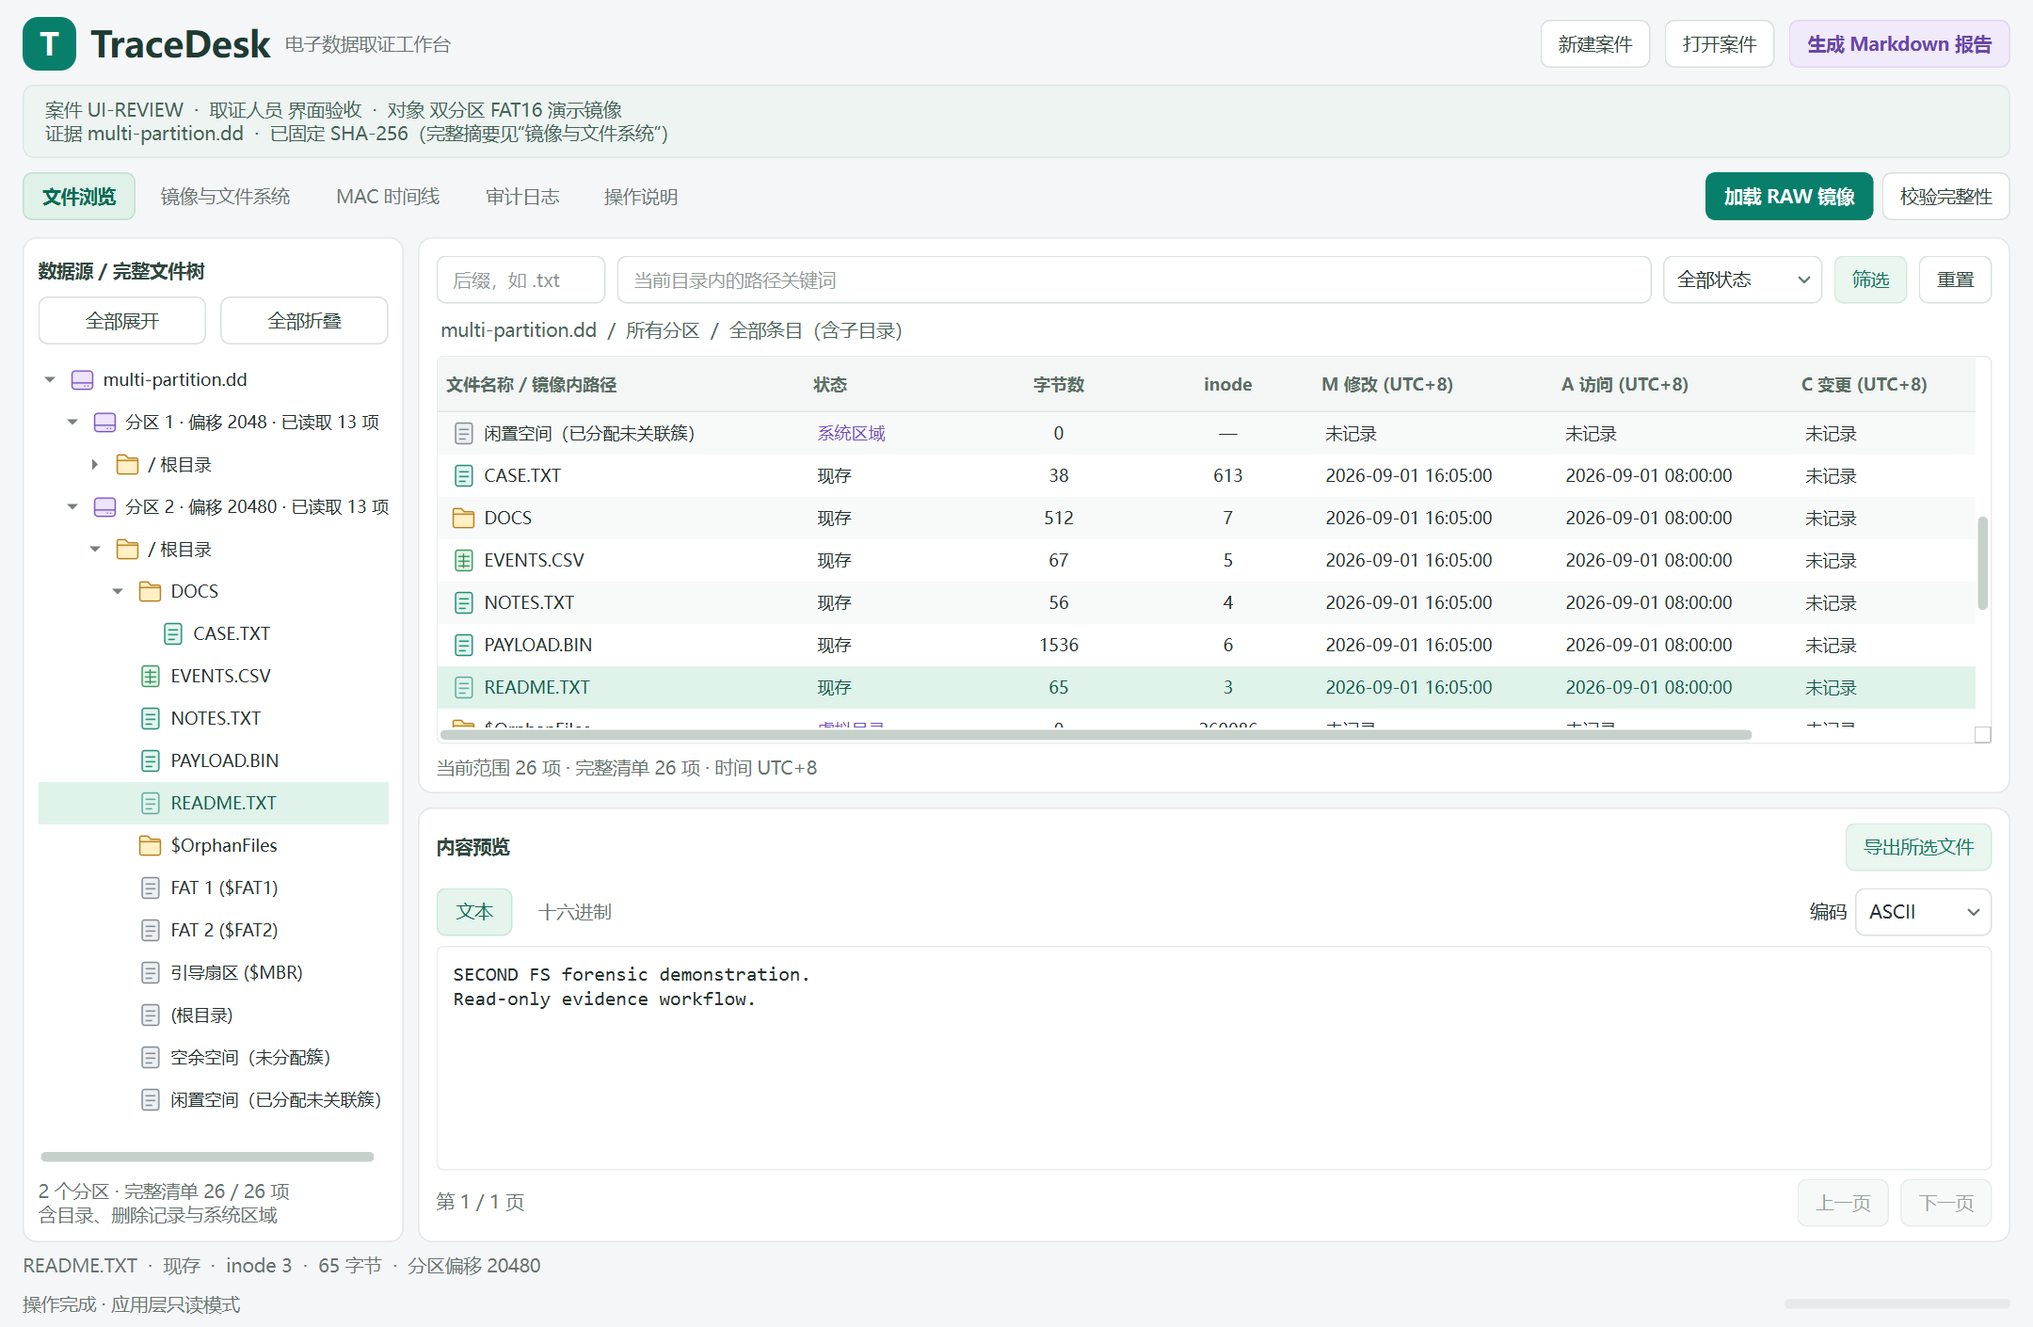
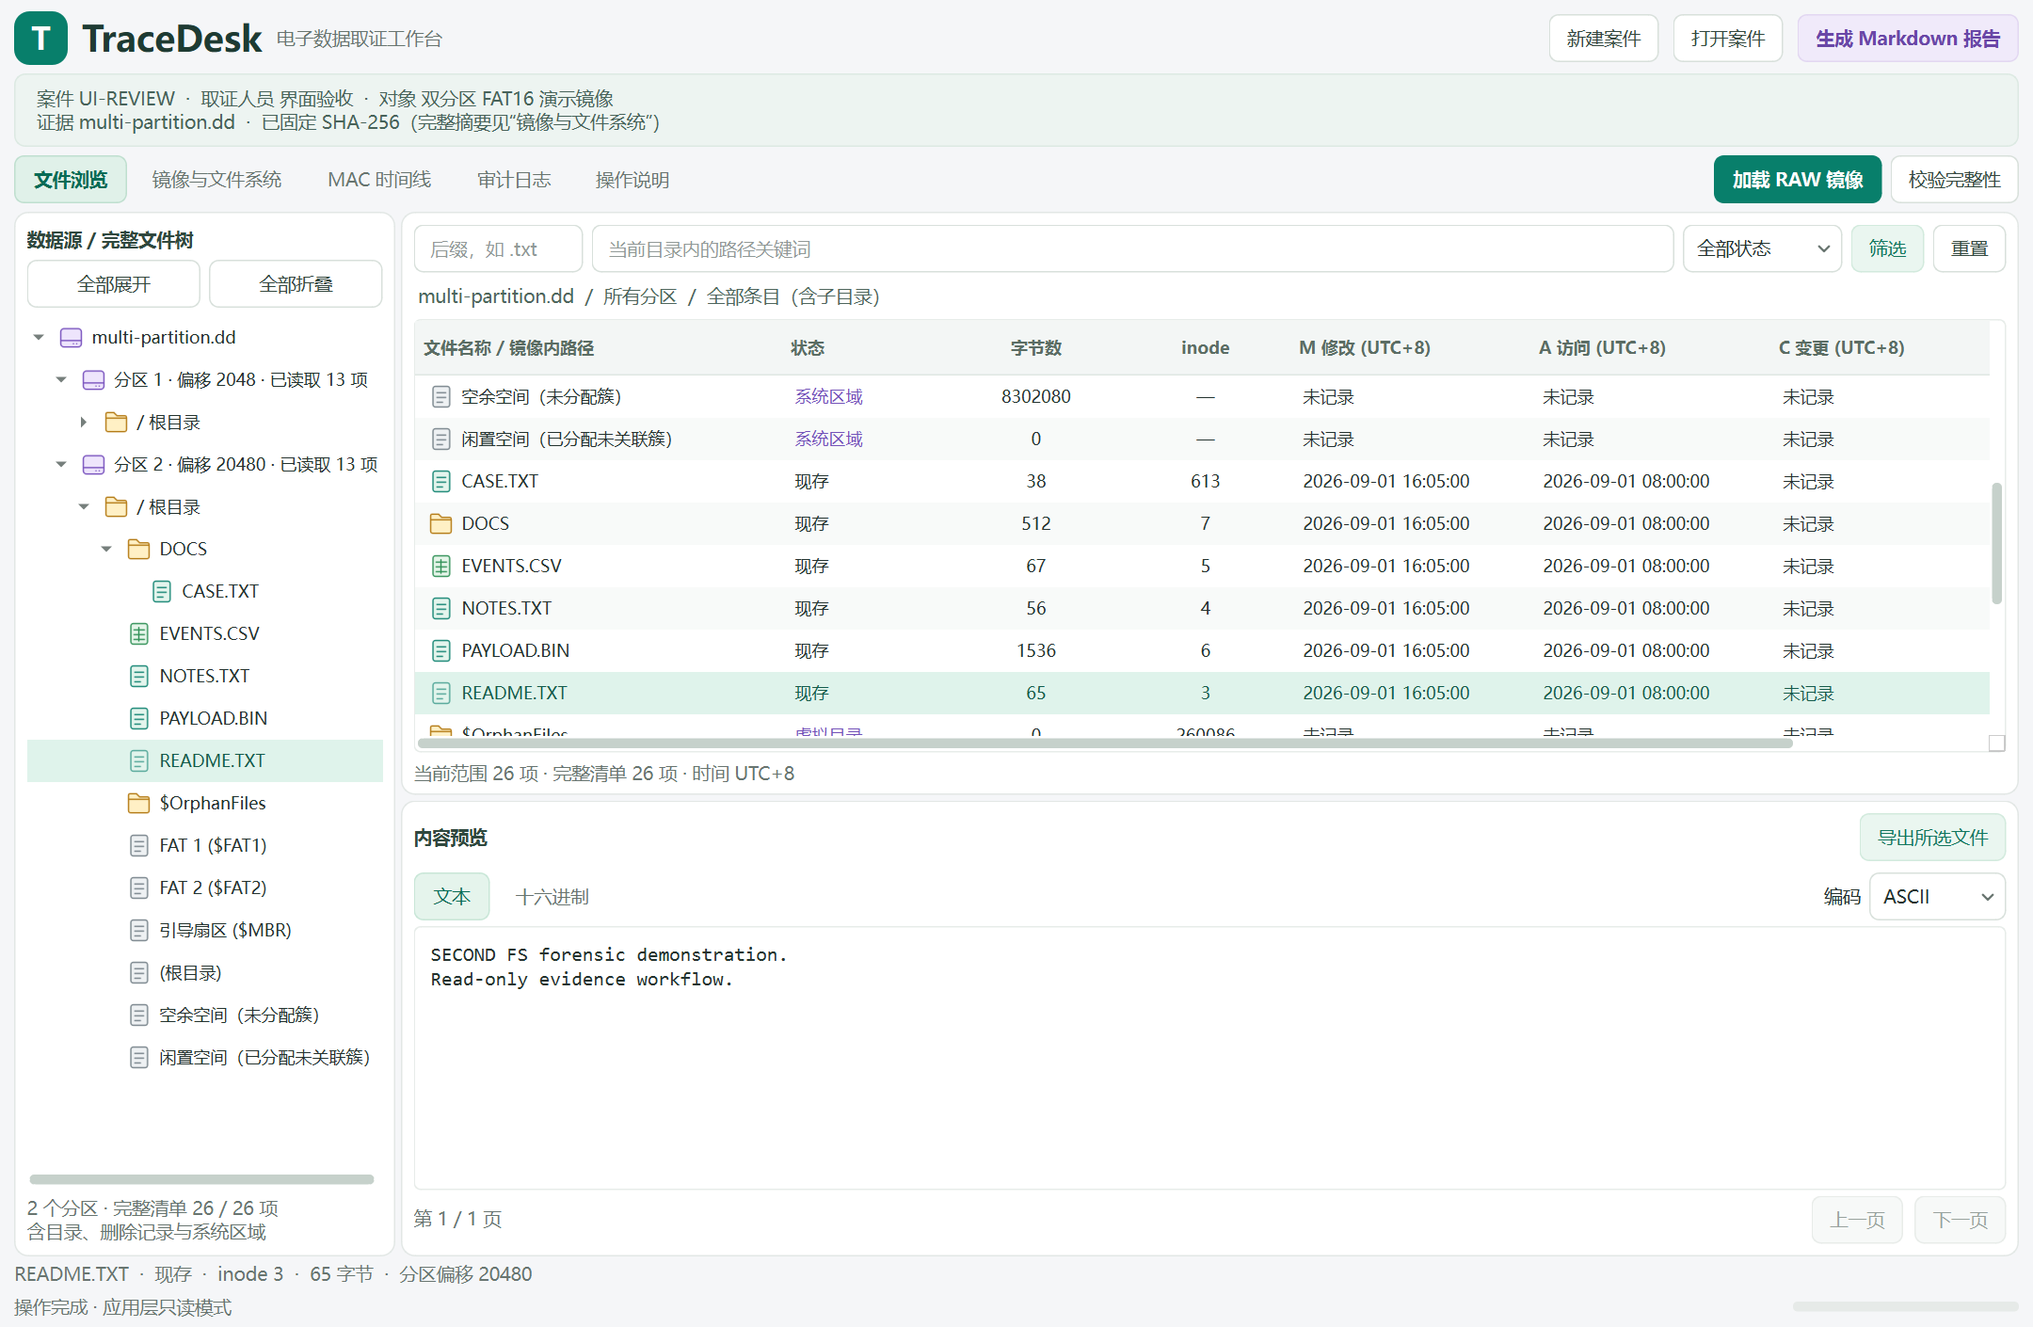
收紧工作台间距并增加导出文件快捷打开操作

diff --git a/tests/ui/test_export_dialog.py b/tests/ui/test_export_dialog.py
@@ -1,0 +1,90 @@
+"""导出后操作：本地路径、失败反馈和部分导出说明。"""
+from pathlib import Path
+import tempfile
+from unittest.mock import Mock, patch
+
+from PySide6.QtCore import Qt
+from PySide6.QtTest import QTest
+from PySide6.QtWidgets import QDialog
+
+from forensic.paths import ROOT
+from forensic.ui.views import ExportResultDialog
+from tests.ui.test_gui import QtTests
+
+
+class ExportDialogTests(QtTests):
+    def dialog(self):
+        root, app = self.controller()
+        work = ROOT / '.test-work'
+        work.mkdir(exist_ok=True)
+        temporary = tempfile.TemporaryDirectory(dir=work)
+        self.addCleanup(temporary.cleanup)
+        path = Path(temporary.name) / '导出 #1 & 副本.txt'
+        path.write_text('测试内容', encoding='utf-8')
+        dialog = ExportResultDialog(root, path)
+        self.addCleanup(dialog.deleteLater)
+        self.addCleanup(dialog.close)
+        dialog.show()
+        self.qt_app.processEvents()
+        return dialog, path
+
+    def test_open_actions_pass_local_urls_and_keep_dialog_open(self):
+        dialog, path = self.dialog()
+        with patch('forensic.ui.views.QDesktopServices.openUrl', return_value=True) as open_url:
+            for button, target in ((dialog.open_file_button, path),
+                                   (dialog.open_folder_button, path.parent)):
+                QTest.mouseClick(button, Qt.MouseButton.LeftButton)
+                url = open_url.call_args.args[0]
+                self.assertTrue(url.isLocalFile())
+                self.assertEqual(Path(url.toLocalFile()), target)
+                self.assertTrue(dialog.isVisible())
+            self.assertEqual(open_url.call_count, 2)
+        dialog.ok_button.setFocus()
+        QTest.keyClick(dialog, Qt.Key.Key_Return)
+        self.assertEqual(dialog.result(), QDialog.DialogCode.Accepted)
+        self.assertFalse(dialog.isVisible())
+
+    def test_missing_file_reports_error_but_folder_can_still_open(self):
+        dialog, path = self.dialog()
+        path.unlink()
+        with patch('forensic.ui.views.QDesktopServices.openUrl', return_value=True) as open_url, \
+                patch('forensic.ui.views.QMessageBox.warning') as warning:
+            dialog.open_file_button.click()
+            open_url.assert_not_called()
+            self.assertIn(str(path), warning.call_args.args[2])
+            self.assertTrue(dialog.isVisible())
+            dialog.open_folder_button.click()
+            self.assertEqual(Path(open_url.call_args.args[0].toLocalFile()), path.parent)
+
+    def test_system_open_failure_reports_target_and_keeps_dialog_open(self):
+        dialog, path = self.dialog()
+        with patch('forensic.ui.views.QDesktopServices.openUrl', return_value=False), \
+                patch('forensic.ui.views.QMessageBox.warning') as warning:
+            dialog.open_file_button.click()
+            self.assertIn('系统未能打开', warning.call_args.args[2])
+            self.assertIn(str(path), warning.call_args.args[2])
+            self.assertTrue(dialog.isVisible())
+
+    def test_export_callback_uses_exported_path_and_preserves_partial_note(self):
+        root, app = self.controller()
+        path = ROOT / '.test-work' / '导出副本.txt'
+        entry = dict(mode='r/r', size=10, deleted=True, directory=False)
+        app.selected_entry = Mock(return_value=entry)
+        app.case = Mock()
+        app.case.export.return_value = path
+        app.task = Mock()
+        for size, title in ((10, '导出成功'), (4, '部分导出')):
+            with self.subTest(size=size):
+                record = dict(path=str(path), size=size, recorded_size=10, deleted=True,
+                              inode='7', read_note='簇链读取说明')
+                app.case.data = dict(exports=[record])
+                with patch('forensic.ui.controller.ExportResultDialog') as result_dialog:
+                    app.export()
+                    _, work, callback = app.task.call_args.args
+                    self.assertEqual(work(), path)
+                    callback(path)
+                    args = result_dialog.call_args.args
+                    self.assertEqual(args[:3], (root, path, title))
+                    self.assertIn(f'{size} / 10 字节', args[3])
+                    self.assertIn('簇链读取说明', args[3])
+                    result_dialog.return_value.exec.assert_called_once()

diff --git a/forensic/ui/views.py b/forensic/ui/views.py
@@ -1,8 +1,11 @@
 """原生 Qt 桌面组件；组件处理显示和输入，不承担取证业务。"""
-from PySide6.QtCore import Qt
+from pathlib import Path
+
+from PySide6.QtCore import Qt, QUrl
+from PySide6.QtGui import QDesktopServices
 from PySide6.QtWidgets import (
-    QDialog, QDialogButtonBox, QFileDialog, QFormLayout, QLabel, QLineEdit,
-    QMessageBox, QPlainTextEdit, QPushButton, QVBoxLayout, QWidget,
+    QDialog, QDialogButtonBox, QFileDialog, QFormLayout, QHBoxLayout, QLabel, QLineEdit,
+    QMessageBox, QPlainTextEdit, QPushButton, QSizePolicy, QStyle, QVBoxLayout, QWidget,
 )
 
 from ..paths import CASES_DIR
@@ -14,7 +17,7 @@ class ReadOnlyTextPanel(QWidget):
     def __init__(self, parent):
         super().__init__(parent)
         layout = QVBoxLayout(self)
-        layout.setContentsMargins(0, 12, 0, 0)
+        layout.setContentsMargins(0, 6, 0, 0)
         self.text = QPlainTextEdit(self)
         self.text.setReadOnly(True)
         self.text.setLineWrapMode(QPlainTextEdit.LineWrapMode.NoWrap)
@@ -22,6 +25,62 @@ class ReadOnlyTextPanel(QWidget):
 
     def set_text(self, value):
         self.text.setPlainText(value)
+
+
+class ExportResultDialog(QDialog):
+    """展示实际导出结果，并通过系统默认程序打开副本或所在目录。"""
+
+    def __init__(self, parent, path, title='导出成功', note=''):
+        super().__init__(parent)
+        self.path = Path(path).absolute()
+        self.setWindowTitle(title)
+        self.setModal(True)
+        self.setMinimumWidth(520)
+        layout = QVBoxLayout(self)
+        layout.setContentsMargins(18, 18, 18, 16)
+        layout.setSpacing(18)
+        content = QHBoxLayout()
+        content.setSpacing(14)
+        icon = QLabel()
+        icon.setPixmap(self.style().standardIcon(QStyle.StandardPixmap.SP_MessageBoxInformation).pixmap(40, 40))
+        content.addWidget(icon, 0, Qt.AlignmentFlag.AlignTop)
+        self.message = QLabel('\n\n'.join(filter(None, (str(self.path), note))))
+        self.message.setTextFormat(Qt.TextFormat.PlainText)
+        self.message.setWordWrap(True)
+        self.message.setAlignment(Qt.AlignmentFlag.AlignLeft | Qt.AlignmentFlag.AlignTop)
+        self.message.setTextInteractionFlags(Qt.TextInteractionFlag.TextSelectableByMouse
+                                             | Qt.TextInteractionFlag.TextSelectableByKeyboard)
+        self.message.setSizePolicy(QSizePolicy.Policy.Ignored, QSizePolicy.Policy.Preferred)
+        content.addWidget(self.message, 1)
+        layout.addLayout(content)
+        buttons = QHBoxLayout()
+        buttons.setSpacing(8)
+        self.open_file_button = QPushButton('打开文件')
+        self.open_folder_button = QPushButton('打开文件所在文件夹')
+        for button in (self.open_file_button, self.open_folder_button):
+            button.setAutoDefault(False)
+            buttons.addWidget(button)
+        buttons.addStretch(1)
+        self.open_file_button.clicked.connect(lambda: self._open_target(folder=False))
+        self.open_folder_button.clicked.connect(lambda: self._open_target(folder=True))
+        self.ok_button = QPushButton('OK')
+        self.ok_button.setObjectName('exportOk')
+        self.ok_button.setDefault(True)
+        self.ok_button.clicked.connect(self.accept)
+        buttons.addWidget(self.ok_button)
+        layout.addLayout(buttons)
+        self.ok_button.setFocus(Qt.FocusReason.OtherFocusReason)
+        self.ensurePolished()
+        self.resize(self.minimumWidth(), layout.totalHeightForWidth(self.minimumWidth()))
+
+    def _open_target(self, *, folder):
+        target = self.path.parent if folder else self.path
+        kind = '文件夹' if folder else '文件'
+        if not (target.is_dir() if folder else target.is_file()):
+            QMessageBox.warning(self, '无法打开', f'{kind}不存在或已被移动：\n{target}')
+            return
+        if not QDesktopServices.openUrl(QUrl.fromLocalFile(str(target))):
+            QMessageBox.warning(self, '无法打开', f'系统未能打开此{kind}：\n{target}')
 
 
 class NewCaseDialog(QDialog):

diff --git a/forensic/ui/browser.py b/forensic/ui/browser.py
@@ -43,21 +43,21 @@ class FileBrowserView(QWidget):
         self._batch_timer.setSingleShot(True)
         self._batch_timer.timeout.connect(self._insert_batch)
         layout = QVBoxLayout(self)
-        layout.setContentsMargins(0, 12, 0, 0)
-        layout.setSpacing(8)
+        layout.setContentsMargins(0, 6, 0, 0)
+        layout.setSpacing(4)
         self.load_button = self._button('加载 RAW 镜像', commands['load'])
         self.load_button.setProperty('role', 'accent')
         self.verify_button = self._button('校验完整性', commands['verify'])
         self.horizontal_split = QSplitter(Qt.Orientation.Horizontal)
         self.horizontal_split.setChildrenCollapsible(False)
-        self.horizontal_split.setHandleWidth(10)
+        self.horizontal_split.setHandleWidth(4)
         layout.addWidget(self.horizontal_split, 1)
         nav_panel = QFrame()
         nav_panel.setObjectName('navigationPanel')
         nav_panel.setMinimumWidth(190)
         nav_layout = QVBoxLayout(nav_panel)
-        nav_layout.setContentsMargins(10, 14, 10, 10)
-        nav_layout.setSpacing(10)
+        nav_layout.setContentsMargins(8, 10, 8, 8)
+        nav_layout.setSpacing(6)
         nav_layout.addWidget(label('数据源 / 完整文件树', 'section'))
         self.navigation = QTreeWidget()
         self.navigation.setObjectName('evidenceTree')
@@ -84,7 +84,7 @@ class FileBrowserView(QWidget):
         self.horizontal_split.addWidget(nav_panel)
         self.split = QSplitter(Qt.Orientation.Vertical)
         self.split.setChildrenCollapsible(False)
-        self.split.setHandleWidth(10)
+        self.split.setHandleWidth(4)
         self.split.setMinimumWidth(500)
         self.horizontal_split.addWidget(self.split)
         self.horizontal_split.setStretchFactor(0, 0)
@@ -93,8 +93,8 @@ class FileBrowserView(QWidget):
         results = QFrame()
         results.setObjectName('resultsPanel')
         result_layout = QVBoxLayout(results)
-        result_layout.setContentsMargins(12, 12, 12, 9)
-        result_layout.setSpacing(8)
+        result_layout.setContentsMargins(8, 8, 8, 6)
+        result_layout.setSpacing(6)
         filters = QHBoxLayout()
         self.suffix = QLineEdit()
         self.suffix.setPlaceholderText('后缀，如 .txt')
@@ -153,8 +153,8 @@ class FileBrowserView(QWidget):
         content = QFrame()
         content.setObjectName('previewPanel')
         content_layout = QVBoxLayout(content)
-        content_layout.setContentsMargins(12, 10, 12, 10)
-        content_layout.setSpacing(8)
+        content_layout.setContentsMargins(8, 8, 8, 8)
+        content_layout.setSpacing(6)
         content_header = QHBoxLayout()
         content_header.addWidget(label('内容预览', 'section'))
         content_header.addStretch()

diff --git a/forensic/ui/controller.py b/forensic/ui/controller.py
@@ -11,7 +11,7 @@ from ..core.case import Case, deleted_export_summary, display_time
 from ..core.tasks import TaskRunner
 from ..engines.tsk import can_export, entry_status
 from ..paths import CASES_DIR, EVIDENCE_DIR
-from .views import NewCaseDialog
+from .views import ExportResultDialog, NewCaseDialog
 from .workspace import WorkbenchView
 
 
@@ -171,9 +171,8 @@ class App(QObject):
 
         def done(path):
             record = next(r for r in reversed(self.case.data['exports']) if r['path'] == str(path))
-            message = '\n\n'.join(filter(None, (str(path), deleted_export_summary(record))))
             title = '部分导出' if record['size'] < entry['size'] else '导出成功'
-            QMessageBox.information(self.root, title, message)
+            ExportResultDialog(self.root, path, title, deleted_export_summary(record)).exec()
 
         self.task('校验并导出证据副本', lambda: self.case.export(entry), done)
 

diff --git a/forensic/ui/workspace.py b/forensic/ui/workspace.py
@@ -19,8 +19,8 @@ class WorkbenchView(QObject):
         self.central.setObjectName('workbench')
         root.setCentralWidget(self.central)
         layout = QVBoxLayout(self.central)
-        layout.setContentsMargins(16, 12, 16, 8)
-        layout.setSpacing(10)
+        layout.setContentsMargins(10, 8, 10, 6)
+        layout.setSpacing(6)
         header = QHBoxLayout()
         header.setSpacing(10)
         brand = label('T')
@@ -55,7 +55,7 @@ class WorkbenchView(QObject):
         self.tabs.addTab(self.browser, '文件浏览')
         self.image_actions = QWidget(self.tabs)
         actions_layout = QHBoxLayout(self.image_actions)
-        actions_layout.setContentsMargins(10, 0, 0, 0)
+        actions_layout.setContentsMargins(6, 0, 0, 0)
         actions_layout.setAlignment(Qt.AlignmentFlag.AlignVCenter)
         actions_layout.addWidget(self.browser.load_button)
         actions_layout.addWidget(self.browser.verify_button)

diff --git a/forensic/ui/preview.py b/forensic/ui/preview.py
@@ -176,8 +176,8 @@ class FilePreview(QWidget):
         self.window = b''
         self.size = self.page = 0
         self._layout = QVBoxLayout(self)
-        self._layout.setContentsMargins(0, 4, 0, 0)
-        self._layout.setSpacing(6)
+        self._layout.setContentsMargins(0, 2, 0, 0)
+        self._layout.setSpacing(4)
         self._build_rows()
         self._build_controls()
         self.clear()
@@ -243,7 +243,7 @@ class FilePreview(QWidget):
         self.text.setFont(fixed)
         self.text.setLineWrapMode(QPlainTextEdit.LineWrapMode.NoWrap)
         self.formats = TabbedView()
-        self.formats.layout().setSpacing(7)
+        self.formats.layout().setSpacing(4)
         self.formats.addTab(self.text, '文本')
         self.formats.addTab(self.rows, '十六进制')
         self._layout.addWidget(self.formats, 1)

diff --git a/forensic/ui/appearance.py b/forensic/ui/appearance.py
@@ -120,6 +120,13 @@ class DesktopAppearance:
             QPushButton[role="violet"]:disabled, QPushButton[role="soft"]:disabled {
                 background: #f7f9f8; color: #98a29d; border-color: #e8ece9;
             }
+            QPushButton#exportOk {
+                background: #1671d9; color: #ffffff; border-color: #1671d9;
+                font-weight: 600; min-width: 54px;
+            }
+            QPushButton#exportOk:hover { background: #1261bf; border-color: #1261bf; }
+            QPushButton#exportOk:pressed { background: #0e50a1; border-color: #0e50a1; }
+            QPushButton#exportOk:focus { border-color: #09396f; }
             QLineEdit, QComboBox {
                 background: #ffffff; color: #24332f; border: 1px solid #d8e0db;
                 border-radius: 7px; padding: 6px 9px; min-height: 20px;

diff --git a/docs/ui/实施与验证.md b/docs/ui/实施与验证.md
@@ -40,3 +40,12 @@
 - 真实窗口加载自建双 FAT16 分区镜像，自动展示 2 个分区、26 项；两个分区内同名 README 均显示对应内容。
 - 在 1440×940 和 1000×720 逻辑像素下检查导航、加载与校验按钮上下边缘一致，编码框与预览标签等高且不被裁切，翻页仍在右下。
 - 实际点击全部模块标签及文本/十六进制标签；目视检查文件浏览、十六进制预览、镜像信息和新建案件对话框。上图已替换为本版真实截图，按原始屏幕像素保存。
+
+## 紧凑间距与导出结果操作
+
+- 按后续反馈，将左右、上下分隔条从 10 缩为 4 逻辑像素；导航与内容间距从 12 缩为 6，主要面板内边距收紧至 8，保留可拖动分隔条和按钮高度。
+- 导出结果弹窗保留完整路径和部分导出说明。按用户要求，右侧 OK 改为蓝色；左侧增加“打开文件”和“打开文件所在文件夹”，调用系统默认程序，点击后弹窗保持打开。文件不存在或系统拒绝打开时显示原因。
+- 24 项界面、预览、导出弹窗测试通过，覆盖中文及带空格、`#`、`&` 的路径、文件移走后仍可打开父目录、系统打开失败、部分导出说明和 Enter 确认关闭。测试替代系统打开接口，避免启动证据副本对应的外部程序。
+- 真实双分区镜像加载、同名文件预览与导出内容核对通过；在两种窗口尺寸下复核导航、编码与分页位置，保存更新后的主界面及导出弹窗截图。
+
+![导出结果弹窗](export-dialog.png)

diff --git a/docs/目录结构.md b/docs/目录结构.md
@@ -27,7 +27,7 @@ TraceDesk/
 │  │  ├─ tabs.py                   # 标签与右侧操作控件的等高行布局
 │  │  ├─ browser.py                # 完整文件树、目录列表、筛选联动
 │  │  ├─ preview.py                # 按页读取和文本/十六进制显示
-│  │  ├─ views.py                  # 案件对话框、只读文本面板
+│  │  ├─ views.py                  # 案件与导出结果对话框、只读文本面板
 │  │  ├─ appearance.py             # 浅色多彩主题、字体、DPI 与窗口尺寸
 │  │  ├─ icons.py                  # 本地彩色线性图标、文件类型映射
 │  │  └─ branding.py               # 图标加载和 Windows 任务栏身份
